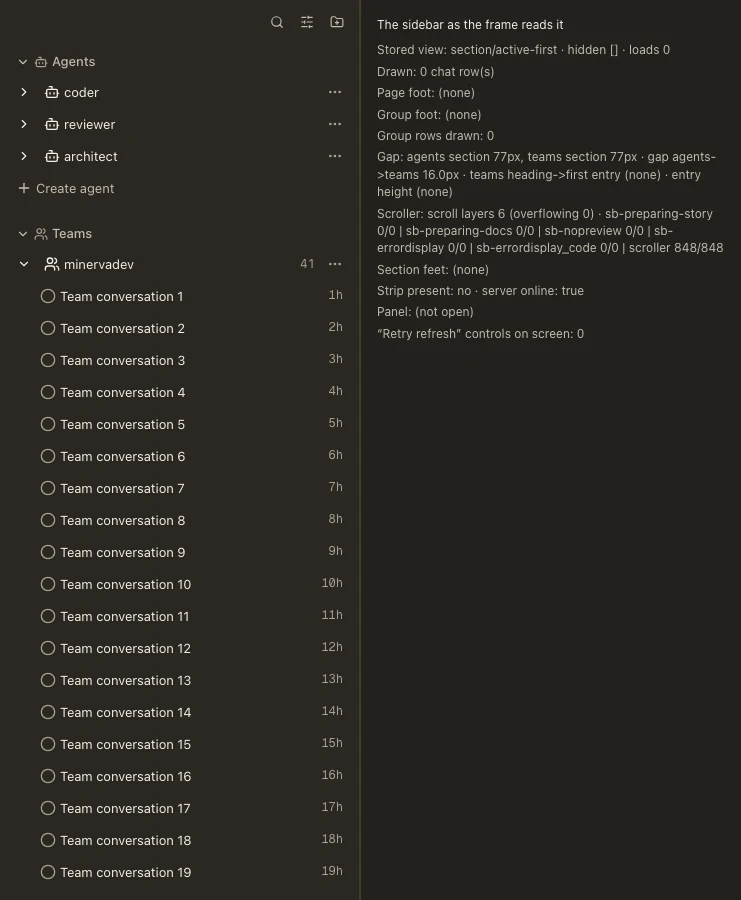
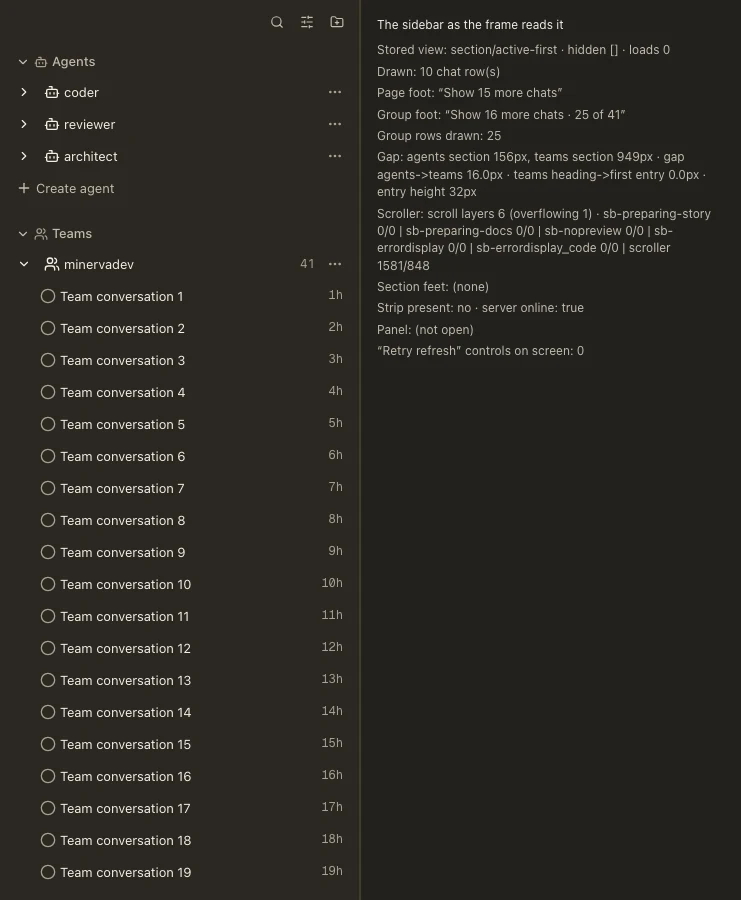
fix(evidence): settle the layout before every frame of this set
The gap-BEFORE frame's own readout came back with `teams section 77px` and no
first entry - a sample taken while the panel was still laying out, which is the
class `chat-sidebar-sections.stories.tsx` documents (its design round 1, D4).
Every story added here now waits for consecutive identical samples of the box
heights, the row count and the foot's copy before the shutter, and the
section-gap table in the README is re-derived from the numbers the frames
actually read (1436px at 41 rows, 628/568 -> 620/568 across the gap fix).

Changed region(s): [[0.4966, 0.0622, 0.9622, 0.28], [0.4966, 0.28, 0.776, 0.4044]]

diff --git a/src/renderer/src/features/chat/components/chat-sidebar-view-menu.stories.tsx b/src/renderer/src/features/chat/components/chat-sidebar-view-menu.stories.tsx
@@ -1008,6 +1008,7 @@ export const GroupBoundTen: Story = {
 	},
 	play: async () => {
 		await waitFor(() => groupRowsDrawn() === 10);
+		await settled();
 		await sleep(350);
 	},
 };
@@ -1035,6 +1036,7 @@ export const GroupBoundAfterOne: Story = {
 		await waitFor(() => groupRowsDrawn() === 10);
 		await press(groupFootSelector);
 		await waitFor(() => groupRowsDrawn() === 25);
+		await settled();
 		await sleep(350);
 	},
 };
@@ -1061,6 +1063,7 @@ export const GroupBoundAfterTwo: Story = {
 		await waitFor(() => groupRowsDrawn() === 25);
 		await press(groupFootSelector);
 		await waitFor(() => groupRowsDrawn() === TEAM_ROWS);
+		await settled();
 		await sleep(350);
 	},
 };
@@ -1091,6 +1094,7 @@ export const GroupBoundCurrentLifted: Story = {
 	},
 	play: async () => {
 		await waitFor(() => groupRowsDrawn() === 11);
+		await settled();
 		await sleep(350);
 	},
 };
@@ -1192,6 +1196,7 @@ export const AgentsCollapsedTeamsExpanded: Story = {
 				document.querySelector('[data-chat-section="teams"]') !== null &&
 				document.querySelector("[data-entity-name]") !== null,
 		);
+		await settled();
 		await sleep(350);
 	},
 };
@@ -1214,6 +1219,7 @@ export const BothSectionsCollapsed: Story = {
 				document.querySelector('[data-chat-section="teams"]') !== null &&
 				document.querySelector("[data-entity-name]") === null,
 		);
+		await settled();
 		await sleep(350);
 	},
 };
@@ -1238,6 +1244,7 @@ export const BothSectionsExpanded: Story = {
 				document.querySelector('[data-chat-section="teams"]') !== null &&
 				document.querySelectorAll("[data-entity-name]").length >= 4,
 		);
+		await settled();
 		await sleep(350);
 	},
 };

diff --git a/docs/evidence/chat-sidebar-view-menu/README.md b/docs/evidence/chat-sidebar-view-menu/README.md
@@ -85,8 +85,10 @@ Panel 360px + 380px readout = 741px wide.
 | gap between the two section headings, `Agents` collapsed | **16.0px before → 8.0px after** |
 | gap between the two section headings, `Agents` expanded | **16.0px before → 16.0px after** (shared, hence the conditional value) |
 | heading-to-first-entry distance, inside a section | 0.0px |
-| `minervadev` section height at 10 / 25 / 41 rows drawn | 525px / 949px / 1436px |
+| `minervadev` section height with 41 rows drawn | **1436px** of a 900px frame, so the group is 20 screens' worth of a 848px region — which is the complaint |
+| entity section height in the gap pair | 28px collapsed, 124px when `Teams` is expanded (heading 28 + three 32px rows) |
 | scroller content/box, `Agents` collapsed + `Teams` expanded | **628/568 before → 620/568 after** |
+| scroller content/box with 41 rows drawn | **2068/848** |
 | scroll layers (of which overflowing) | **6 (1)** — one real layer, the entity region; the other five are Storybook's own 0/0 decorators. The count is 6 (0) in `search-finds-unloaded`, where the query narrows the list until it fits. |
 
 **The bound does not introduce a second scroller.** The overflow count is 1 in
